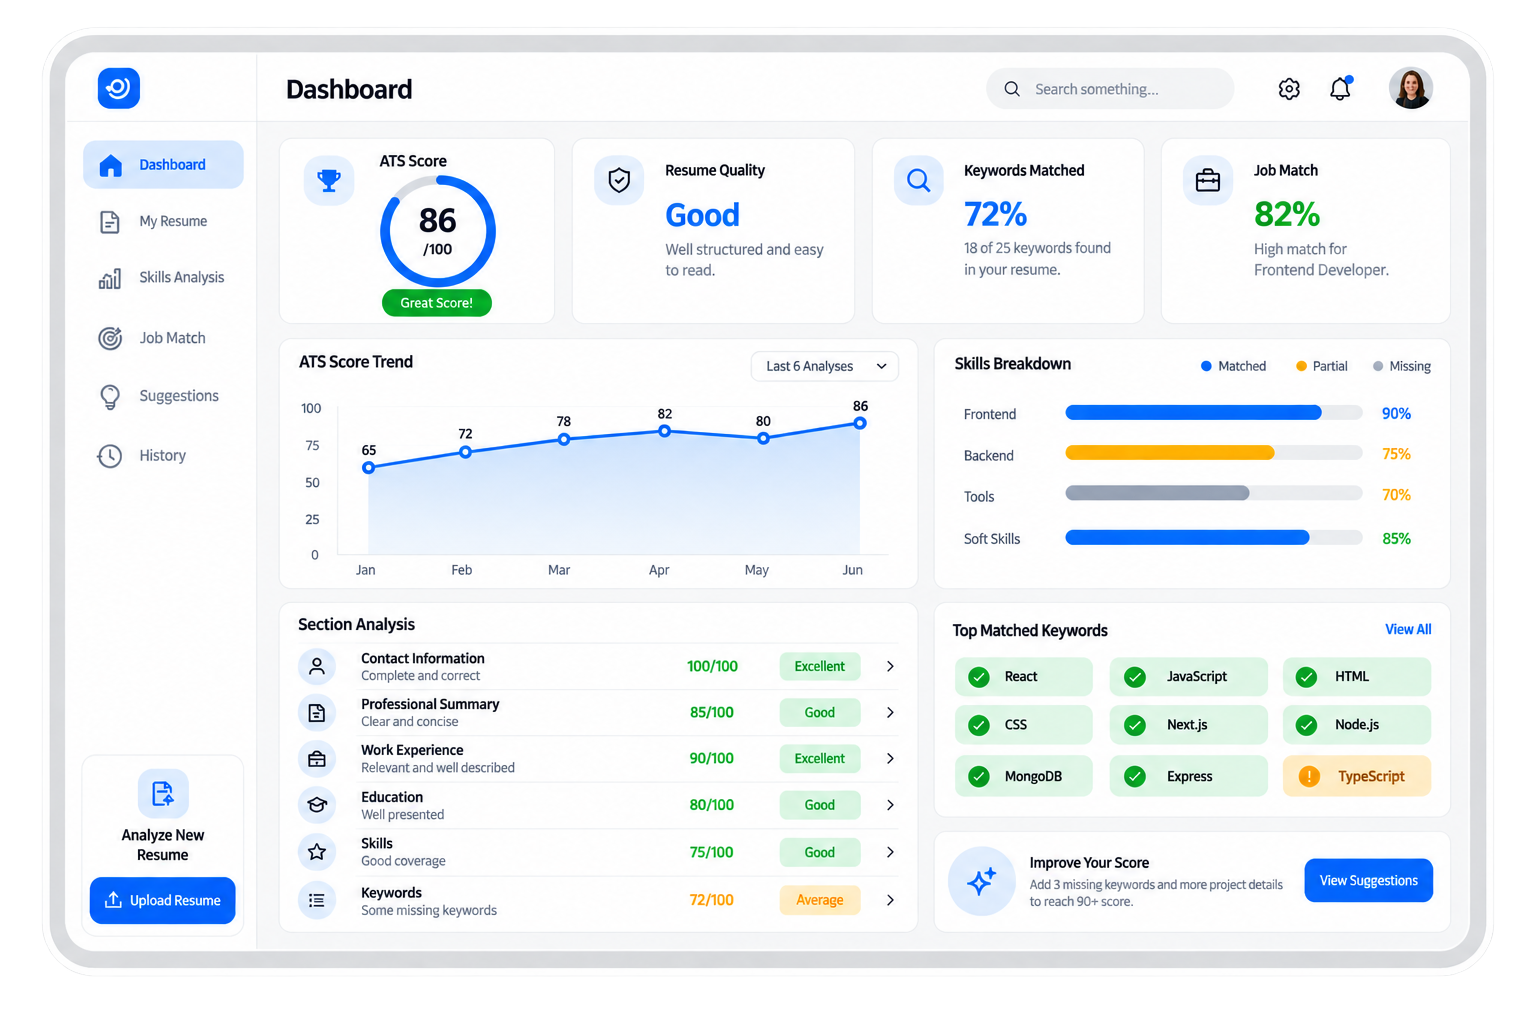
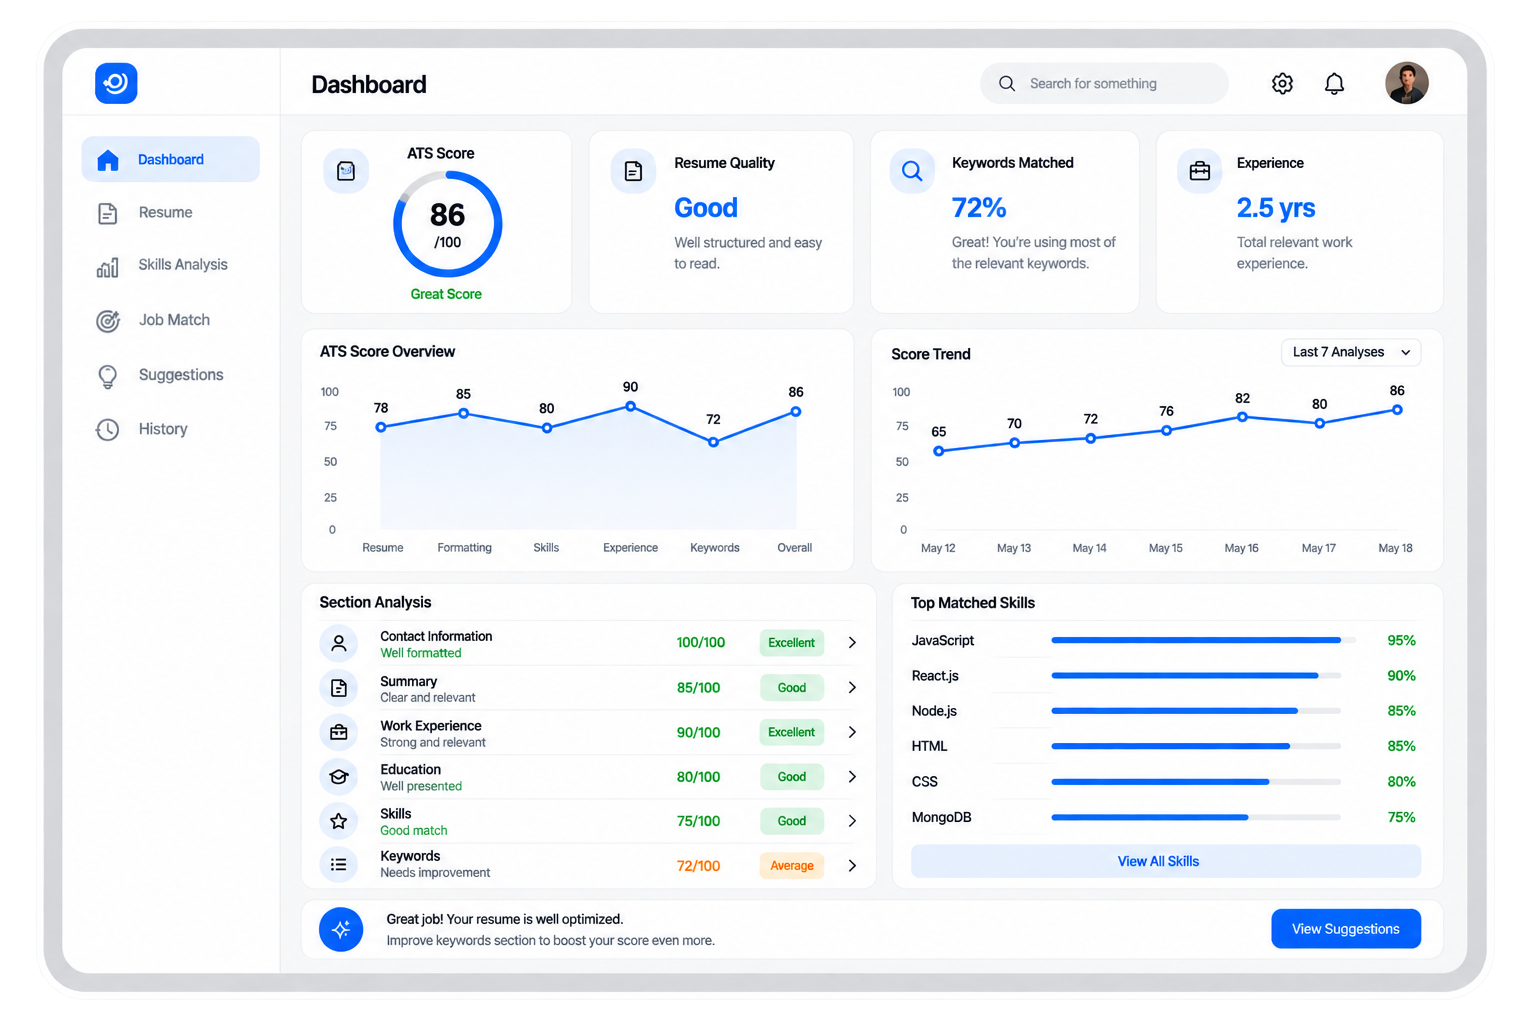
hero fixed

diff --git a/app/Components/Hero.scss b/app/Components/Hero.scss
@@ -584,6 +584,9 @@ margin-top: -16px;
    DASHBOARD WRAPPER
 
    Dashboard sits ABOVE the blue background.
+
+   Overlap kept small and `.hero__dashboard`'s transform-origin
+   is the TOP edge (not the bottom) — see below for why.
    ========================================================= */
 
 .hero__dashboard-wrapper {
@@ -593,7 +596,7 @@ margin-top: -16px;
 
   width: 100%;
 
-  margin-top: -105px;
+  margin-top: -30px;
 
   padding-bottom: 100px;
 
@@ -601,24 +604,26 @@ margin-top: -16px;
 }
 
 
-/* =========================================================
-   DASHBOARD
-   ========================================================= */
+
 
 .hero__dashboard {
   position: relative;
 
-  width: min(1140px, 78vw);
+  width: min(960px, 66vw);
 
   margin: 0 auto;
 
-  transform-origin: center bottom;
+  transform-origin: center top;
 
   transform-style: preserve-3d;
 
-  perspective: 1800px;
+  perspective: 1400px;
 
   will-change: transform;
+   filter:
+  drop-shadow(0 18px 30px rgba(0, 0, 0, 0.14))
+  drop-shadow(0 30px 55px rgba(0, 0, 0, 0.10));
+  
 }
 
 
@@ -630,10 +635,9 @@ margin-top: -16px;
   height: auto;
 
   border-radius: 24px 24px 0 0;
+  
 
-//   box-shadow:
-//     0 24px 64px rgba(46, 100, 151, 0.18),
-//     0 6px 18px rgba(46, 100, 151, 0.1);
+
 }
 
 
@@ -728,11 +732,11 @@ margin-top: -16px;
   }
 
   .hero__dashboard-wrapper {
-    margin-top: -80px;
+    margin-top: -38px;
   }
 
   .hero__dashboard {
-    width: min(1000px, 92vw);
+    width: min(860px, 82vw);
   }
 }
 
@@ -760,11 +764,11 @@ margin-top: -16px;
   }
 
   .hero__dashboard-wrapper {
-    margin-top: -60px;
+    margin-top: -28px;
   }
 
   .hero__dashboard {
-    width: 94vw;
+    width: 86vw;
   }
 }
 
@@ -893,7 +897,7 @@ margin-top: -16px;
      ------------------------------ */
 
   .hero__dashboard-wrapper {
-    margin-top: -45px;
+    margin-top: -20px;
 
     padding-bottom: 60px;
 
@@ -901,9 +905,9 @@ margin-top: -16px;
   }
 
   .hero__dashboard {
-    width: 130vw;
+    width: 120vw;
 
-    margin-left: -15vw;
+    margin-left: -10vw;
   }
 
   .hero__dashboard img {
@@ -972,12 +976,12 @@ margin-top: -16px;
   }
 
   .hero__dashboard-wrapper {
-    margin-top: -35px;
+    margin-top: -15px;
   }
 
   .hero__dashboard {
-    width: 145vw;
+    width: 135vw;
 
-    margin-left: -22.5vw;
+    margin-left: -17.5vw;
   }
 }

diff --git a/app/Components/Hero.tsx b/app/Components/Hero.tsx
@@ -28,8 +28,11 @@ const Hero = () => {
     restDelta: 0.001,
   });
 
-  const rotateX = useTransform(progress, [0, 0.85], [28, 0]);
-  const scale = useTransform(progress, [0, 0.85], [0.96, 1]);
+  // Tilt only — no scale. Layering a scale animation on top of rotateX
+  // doubled up with the perspective foreshortening (rotating toward flat
+  // already makes it read as "growing"), which is what made it look like
+  // it was stretching instead of just straightening.
+  const rotateX = useTransform(progress, [0, 0.85], [40, 0]);
 
   const containerVariants: Variants = {
     hidden: {
@@ -170,7 +173,13 @@ const Hero = () => {
 
           {/* PROOF */}
 
-          <div className="hero__proof">
+<motion.div
+  className="hero__proof"
+  variants={itemVariants}
+  initial="hidden"
+  animate="show"
+>
+  
             <p>
               AI resume insights built to simplify applications and make every
               submission stronger.
@@ -181,7 +190,7 @@ const Hero = () => {
 
               <strong>4.8 rated by job seekers</strong>
             </div>
-          </div>
+          </motion.div>
         </div>
       </div>
 
@@ -189,12 +198,14 @@ const Hero = () => {
           DASHBOARD
       ===================================================== */}
 
-      <div className="hero__dashboard-wrapper">
+      <motion.div className="hero__dashboard-wrapper"
+       variants={itemVariants}
+  initial="hidden"
+  animate="show">
         <motion.div
           className="hero__dashboard"
           style={{
             rotateX,
-            scale,
           }}
         >
           <img
@@ -202,7 +213,7 @@ const Hero = () => {
             alt="ResMind ATS resume analysis dashboard"
           />
         </motion.div>
-      </div>
+      </motion.div>
     </section>
   );
 };
